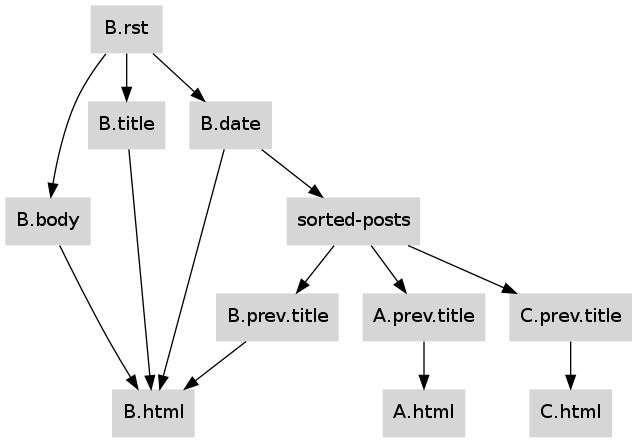
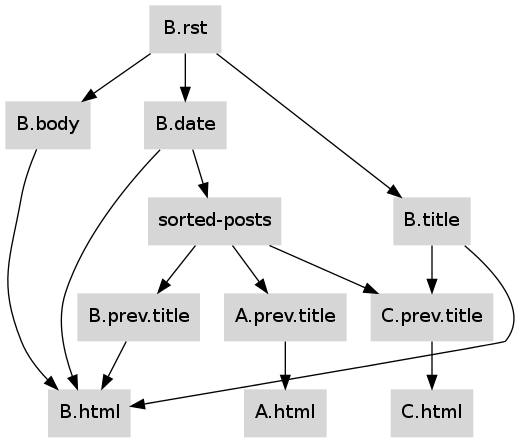
Add a Cache that invalidates downstream results

diff --git a/graphlib.py b/graphlib.py
@@ -4,16 +4,22 @@ from collections import defaultdict
 
 class Graph(object):
     def __init__(self):
-        self.dependencies = defaultdict(set)
-        self.targets = defaultdict(set)
+        self._dependencies = defaultdict(set)
+        self._targets = defaultdict(set)
 
     def add_edge(self, dependency, target):
-        self.targets[dependency].add(target)
-        self.dependencies[target].add(dependency)
+        self._targets[dependency].add(target)
+        self._dependencies[target].add(dependency)
 
     def remove_edge(self, dependency, target):
-        self.targets[dependency].remove(target)
-        self.dependencies[target].remove(dependency)
+        self._targets[dependency].remove(target)
+        self._dependencies[target].remove(dependency)
+
+    def nodes(self):
+        return set(self._dependencies) | set(self._targets)
+
+    def targets_of(self, dependency):
+        return set(self._targets[dependency])
 
     def consequences_of(self, dependencies):
         return list(self.generate_consequences_backwards(dependencies))[::-1]
@@ -21,7 +27,7 @@ class Graph(object):
     def generate_consequences_backwards(self, dependencies):
         def visit(dependency):
             visited.add(dependency)
-            for target in sorted(self.targets[dependency], reverse=True):
+            for target in sorted(self._targets[dependency], reverse=True):
                 if target not in visited:
                     yield from visit(target)
                     yield target
@@ -34,7 +40,7 @@ class Graph(object):
         nodes = set(nodes)
         lines = ['digraph { node [shape=rect penwidth=0 style=filled'
                  ' fillcolor="#d6d6d6"];']
-        for dependency, targets in sorted(self.targets.items()):
+        for dependency, targets in sorted(self._targets.items()):
             if (not nodes) or (dependency in nodes):
                 for target in sorted(targets):
                     if (not nodes) or (target in nodes):

diff --git a/cachelib.py b/cachelib.py
@@ -1,0 +1,21 @@
+
+_absent = object()
+
+class Cache:
+    """A cache of the outputs of each stage of a build process."""
+
+    def __init__(self, graph):
+        self.graph = graph
+        self.results = {}
+
+    def __setitem__(self, key, value):
+        results = self.results
+        old_value = results.get(key, _absent)
+        if (old_value is not _absent) and (value == old_value):
+            return
+        results[key] = value
+        for target in self.graph.targets_of(key):
+            results.pop(target, None)
+
+    def missing(self):
+        return self.graph.nodes() - set(self.results)

diff --git a/chapter.rst b/chapter.rst
@@ -121,6 +121,9 @@ of every single blog post:
 ...     g.add_edge('sorted-posts', post + '.prev.title')
 ...     g.add_edge(post + '.prev.title', post + '.html')
 
+>>> g.add_edge('A.title', 'B.prev.title')
+>>> g.add_edge('B.title', 'C.prev.title')
+
 And it is this set of edges that ruin our dependency graph.  Because of
 the possibility that an edit to any blog post’s source code might make a
 change to its date — although in practice this will be only a small
@@ -130,7 +133,7 @@ any single one of them is edited!
 
 >>> consequences = g.consequences_of(['B.rst'])
 >>> consequences
-['B.body', 'B.date', 'sorted-posts', 'A.prev.title', 'A.html', 'B.prev.title', 'C.prev.title', 'C.html', 'B.title', 'B.html']
+['B.body', 'B.date', 'sorted-posts', 'A.prev.title', 'A.html', 'B.prev.title', 'B.title', 'B.html', 'C.prev.title', 'C.html']
 
 >>> open('diagram2.dot', 'w').write(g.as_graphviz(['B.rst'] + consequences)) and None
 
@@ -145,4 +148,33 @@ from dozens of other documents.
 Given such a dense dependency graph, can a build system do any better
 than to simply perform a complete rebuild upon every modification?
 
+Chasing consequences
+--------------------
 
+>>> open('diagram3.dot', 'w').write(g.as_graphviz()) and None
+
+>>> from cachelib import Cache
+>>> c = Cache(g)
+>>> roots = ['A.rst', 'B.rst', 'C.rst']
+>>> for node in roots + g.consequences_of(roots):
+...     c[node] = 'initial value'
+
+>>> c.missing()
+set()
+
+>>> c['B.title'] = 'Title B'
+>>> c.missing()
+{'B.html', 'C.prev.title'}
+>>> c['B.html'] = 'HTML for post B'
+>>> c['C.prev.title'] = 'Title B'
+>>> c.missing()
+{'C.html'}
+>>> c['C.html'] = 'HTML for post C'
+>>> c.missing()
+set()
+
+>>> c['B.title'] = 'Title B'
+>>> c.missing()
+
+[TODO: blurb about file dates and ``touch`` and how it lets you force a
+rebuild even if ``make`` cannot see that some contingency has changed]
